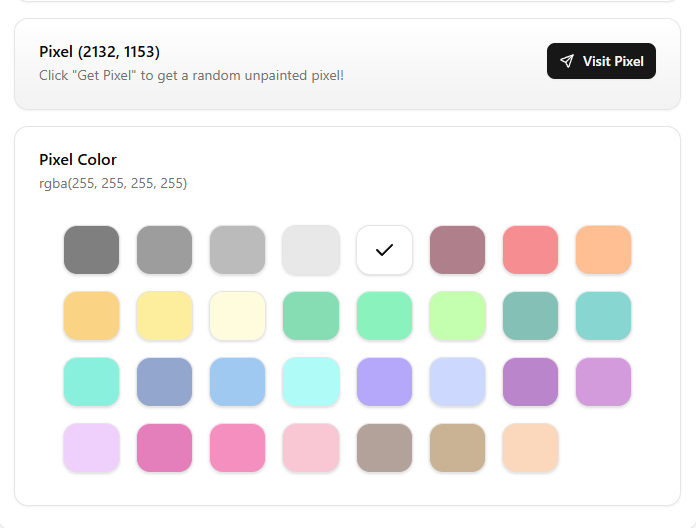
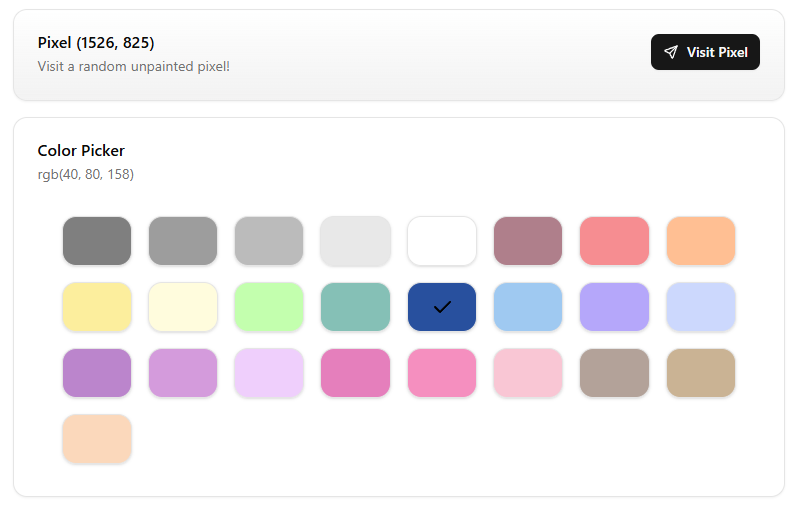
Optimized the pixel filling process by allowing users to stay on the same color

diff --git a/app/ui/canvas.tsx b/app/ui/canvas.tsx
@@ -24,6 +24,7 @@ import { converter } from '../lib/converter';
 import { WPLACE_FREE_COLOR_PALETTE } from '../lib/colors';
 import { 
     TemplateOffset,
+    PixelDiff,
     getTemplate, 
     computePixelDiff, 
     createOverlayImage
@@ -37,17 +38,30 @@ type PaintTarget = {
     y: number
 }
 
-function CardColor({ color }: { color: number[] }) {
+function CardColor({ 
+    unpaintedPixels, 
+    color, 
+    setColor 
+}: { 
+    unpaintedPixels: PixelDiff,
+    color: number[],
+    setColor: (color: number[]) => void
+}) {
     const colorCards = [];
     WPLACE_FREE_COLOR_PALETTE.forEach(paletteColor => {
-        const match = color[0] == paletteColor[0] && color[1] == paletteColor[1] && color[2] == paletteColor[2];
+        const colorKey = paletteColor.join('_');
+        if (!(colorKey in unpaintedPixels)) {
+            return;
+        }
+        const match = (color) ? color[0] == paletteColor[0] && color[1] == paletteColor[1] && color[2] == paletteColor[2] : false;
         let light = false;
         if (match && paletteColor[0] < 127.5 && paletteColor[1] < 127.5 && paletteColor[2] < 127.5) {
             light = true;
         }
         colorCards.push(<Card 
+            onClick={() => setColor(paletteColor)}
             className="m-2"
-            key={paletteColor.join('_')} 
+            key={colorKey} 
             style={{ 
                 position: "relative",
                 backgroundColor: `rgba(${paletteColor[0]}, ${paletteColor[1]}, ${paletteColor[2]}, ${match ? 1 : 0.5})`,
@@ -76,7 +90,8 @@ export function WPlaceCanvas({
     const [loadingTemplate, setLoadingTemplate] = useState(true);
     const [overlayImage, setOverlayImage] = useState<Buffer | undefined>();
     const [pixelCount, setPixelCount] = useState([0, 0]);
-    const [unpaintedPixels, setUnpaintedPixels] = useState([]);
+    const [unpaintedPixels, setUnpaintedPixels] = useState<PixelDiff>({});
+    const [color, setColor] = useState<number[] | undefined>();
     const [target, setTarget] = useState<PaintTarget | undefined>(undefined);
 
     const setTemplateState = () => {
@@ -86,7 +101,7 @@ export function WPlaceCanvas({
                 new Promise((resolve, _) => {
                     computePixelDiff(template).then(pixelData => {
                         Promise.all([
-                            setPixelCount([pixelData.totalPixels - pixelData.pixelDiff.length, pixelData.totalPixels]),
+                            setPixelCount([pixelData.totalPixels - pixelData.diffPixels, pixelData.totalPixels]),
                             setUnpaintedPixels(pixelData.pixelDiff),
                         ]).then(resolve);
                     });
@@ -99,16 +114,26 @@ export function WPlaceCanvas({
     useEffect(() => {
         setOverlayImage(undefined);
         setPixelCount([0, 0]);
-        setUnpaintedPixels([]);
+        setUnpaintedPixels({});
+        setColor(undefined);
         setTarget(undefined);
         setTemplateState();
     }, [templateOffset, templateName, templateUrl]);
 
     const getRandomUnpainted = () => {
-        const unpaintedPixel = unpaintedPixels[Math.floor(Math.random() * unpaintedPixels.length)];
-        let [lat, lon] = converter.pixelsToLatLon(unpaintedPixel[0], unpaintedPixel[1], 11);
+        const colorKey = color.join('_');
+        const unpaintedPixel = unpaintedPixels[colorKey].pop();
+        let [lat, lon] = converter.pixelsToLatLon(unpaintedPixel.px, unpaintedPixel.py, 11);
         const regionPixel = converter.latLonToRegionAndPixel(lat, lon, 11);
-        setTarget({ lat, lon, color: unpaintedPixel[2], x: regionPixel.pixel[0], y: regionPixel.pixel[1] })
+        window.open(`https://wplace.live/?lat=${lat}&lng=${lon}&zoom=22`, '_blank').focus();
+        setTarget({ lat, lon, color: unpaintedPixel[2], x: regionPixel.pixel[0], y: regionPixel.pixel[1] });
+
+        // Remove this pixel from the unpainted pixels so it doesn't show up again
+        if (!unpaintedPixels[colorKey].length) {
+            delete unpaintedPixels[colorKey];
+            setColor(undefined);
+        }
+        setUnpaintedPixels(unpaintedPixels);
     }
 
     return (
@@ -128,9 +153,6 @@ export function WPlaceCanvas({
                                     <Button variant="ghost" onClick={() => setTemplateState()}><IconRefresh /></Button>
                             }
                         </span>
-                        <span className="px-1">
-                            <Button onClick={() => getRandomUnpainted()} disabled={unpaintedPixels.length ? false : true}><IconClick />Get Pixel</Button>
-                        </span>
                     </CardAction>
                 </CardHeader>
                 <CardContent>
@@ -145,27 +167,25 @@ export function WPlaceCanvas({
                 <Card className="from-primary/5 to-card bg-card bg-gradient-to-t shadow-xs">
                     <CardHeader>
                         <CardTitle>{ target ? `Pixel (${target.x}, ${target.y})` : "Pixel Details" }</CardTitle>
-                        <CardDescription>Click "Get Pixel" to get a random unpainted pixel!</CardDescription>
+                        <CardDescription>Visit a random unpainted pixel!</CardDescription>
                         {
-                            target ? <CardAction>
+                            color ? <CardAction>
                                 <Button
-                                    onClick={() => window.open(`https://wplace.live/?lat=${target.lat}&lng=${target.lon}&zoom=22`, '_blank').focus()}
+                                    onClick={getRandomUnpainted}
                                 ><IconSend />Visit Pixel</Button>
                             </CardAction> : ''
                         }
                     </CardHeader>
                 </Card>
-                {
-                    target ? <Card className="shadow-xs mt-4">
-                        <CardHeader>
-                            <CardTitle>Pixel Color</CardTitle>
-                            <CardDescription>rgb({target.color[0]}, {target.color[1]}, {target.color[2]})</CardDescription>
-                        </CardHeader>
-                        <CardContent>
-                            <CardColor color={target.color} />
-                        </CardContent>
-                    </Card> : ''
-                }
+                <Card className="shadow-xs mt-4">
+                    <CardHeader>
+                        <CardTitle>Color Picker</CardTitle>
+                        <CardDescription>{ color ? `rgb(${color[0]}, ${color[1]}, ${color[2]})` : 'Select a color!' }</CardDescription>
+                    </CardHeader>
+                    <CardContent>
+                        <CardColor unpaintedPixels={unpaintedPixels} color={color} setColor={setColor} />
+                    </CardContent>
+                </Card>
             </span>
         </div>
     )

diff --git a/app/lib/api/template.tsx b/app/lib/api/template.tsx
@@ -1,6 +1,7 @@
 'use server';
 
 import sharp from 'sharp';
+import shuffle from 'knuth-shuffle-seeded';
 
 import { TILE_SIZE, converter } from '../converter';
 import { getWPlacePng } from './wplace';
@@ -152,14 +153,23 @@ export async function getTemplate(url: string, config: TemplateOffset): Promise<
     };
 }
 
-export type PixelData = {
-    pixelDiff: number[][]
-    totalPixels: number
+export type PixelDiff = {
+    [color: string]: {
+        px: number,
+        py: number
+    }[]
 }
 
-export async function computePixelDiff(template: Template) {
+export type PixelData = {
+    pixelDiff: PixelDiff
+    totalPixels: number
+    diffPixels: number
+}
+
+export async function computePixelDiff(template: Template): Promise<PixelData> {
     let totalPixels = 0;
-    const pixelDiff = [];
+    let diffPixels = 0;
+    const pixelDiff = {};
     // Calculate pixel diff (remove padded pixels)
     for (let y = PADDING; y < template.height - PADDING; y++) {
         for (let x = PADDING; x < template.width - PADDING; x++) {
@@ -178,17 +188,23 @@ export async function computePixelDiff(template: Template) {
                 totalPixels++;
                 if (!equal || unfilled) {
                     // Store true X, Y and RGBA data
-                    pixelDiff.push([template.offsetPx + x, template.offsetPy + y, [
-                        template.templateData[templateIdx],
-                        template.templateData[templateIdx + 1],
-                        template.templateData[templateIdx + 2],
-                        template.templateData[templateIdx + 3]
-                    ]]);
+                    const colorKey = `${template.templateData[templateIdx]}_${template.templateData[templateIdx + 1]}_${template.templateData[templateIdx + 2]}`;
+                    if (!(colorKey in pixelDiff)) {
+                        pixelDiff[colorKey] = [];
+                    }
+                    pixelDiff[colorKey].push({
+                        px: template.offsetPx + x,
+                        py: template.offsetPy + y
+                    });
+                    diffPixels++;
                 }
             }
         }
     }
-    return { pixelDiff, totalPixels };
+
+    // Randomize array
+    Object.keys(pixelDiff).forEach(key => pixelDiff[key] = shuffle(pixelDiff[key]));
+    return { pixelDiff, totalPixels, diffPixels };
 }
 
 const BIG_PIXEL_SIZE = 6;

diff --git a/app/ui/dialog/help.tsx b/app/ui/dialog/help.tsx
@@ -39,9 +39,7 @@ export function HelpDialog({
                             <Separator className="mb-6" />
                             <h4>Step 2: Preview The Pixel Artwork</h4>
                             <p className="text-muted-foreground text-sm">
-                                You can now preview the pixel artwork and see what pixels are not yet placed. <br/>
-                                Clicking the "Get Pixel" button will get you a random unfilled pixel. <br/>
-                                The example artwork is mostly finished, but in an unfinished artwork template pixels will appear smaller.
+                                You can now preview the pixel artwork and see what pixels are not yet placed. 
                             </p>
                         </span>
                         <img src="/help/help_2.png" />
@@ -49,7 +47,8 @@ export function HelpDialog({
                             <Separator className="mb-6" />
                             <h4>Step 3: Fill The Unfilled Pixel</h4>
                             <p className="text-muted-foreground text-sm">
-                                Use the provided color guide and pixel coordinates to fill the unfilled pixel!
+                                Use the provided color guide and a select a color to fill in! <br/>
+                                Once a color is selected, the visit pixel button should appear. This button will bring you to a random pixel that needs to be filled with your selected color.
                             </p>
                         </span>
                         <img src="/help/help_3.png" />

diff --git a/app/ui/dialog/custom.tsx b/app/ui/dialog/custom.tsx
@@ -81,7 +81,7 @@ export function CustomDialog({
                 </DialogHeader>
                 <div className="grid gap-4">
                     <div className="grid gap-3">
-                        <Label htmlFor="template-url">Url (Must Be Transparent PNG)</Label>
+                        <Label htmlFor="template-url">Url (Supports PNG, WebP, JPEG)</Label>
                         <Input id="template-url" name="template-url" value={customConfig.url} onChange={(event) => setCustomConfig({
                             ...customConfig,
                             url: event.target.value

diff --git a/README.md b/README.md
@@ -40,8 +40,8 @@ It offers them a simple way to contribute to various projects without requiring 
 ### Selected Template
 ![Selected Template](/public/help/help_2.png)
 
-### Color Guide
-![Color Guide](/public/help/help_3.png)
+### Color Picker
+![Color Picker](/public/help/help_3.png)
 
 ### Custom Templates
 ![Custom Templates](/public/help/help_4.png)
